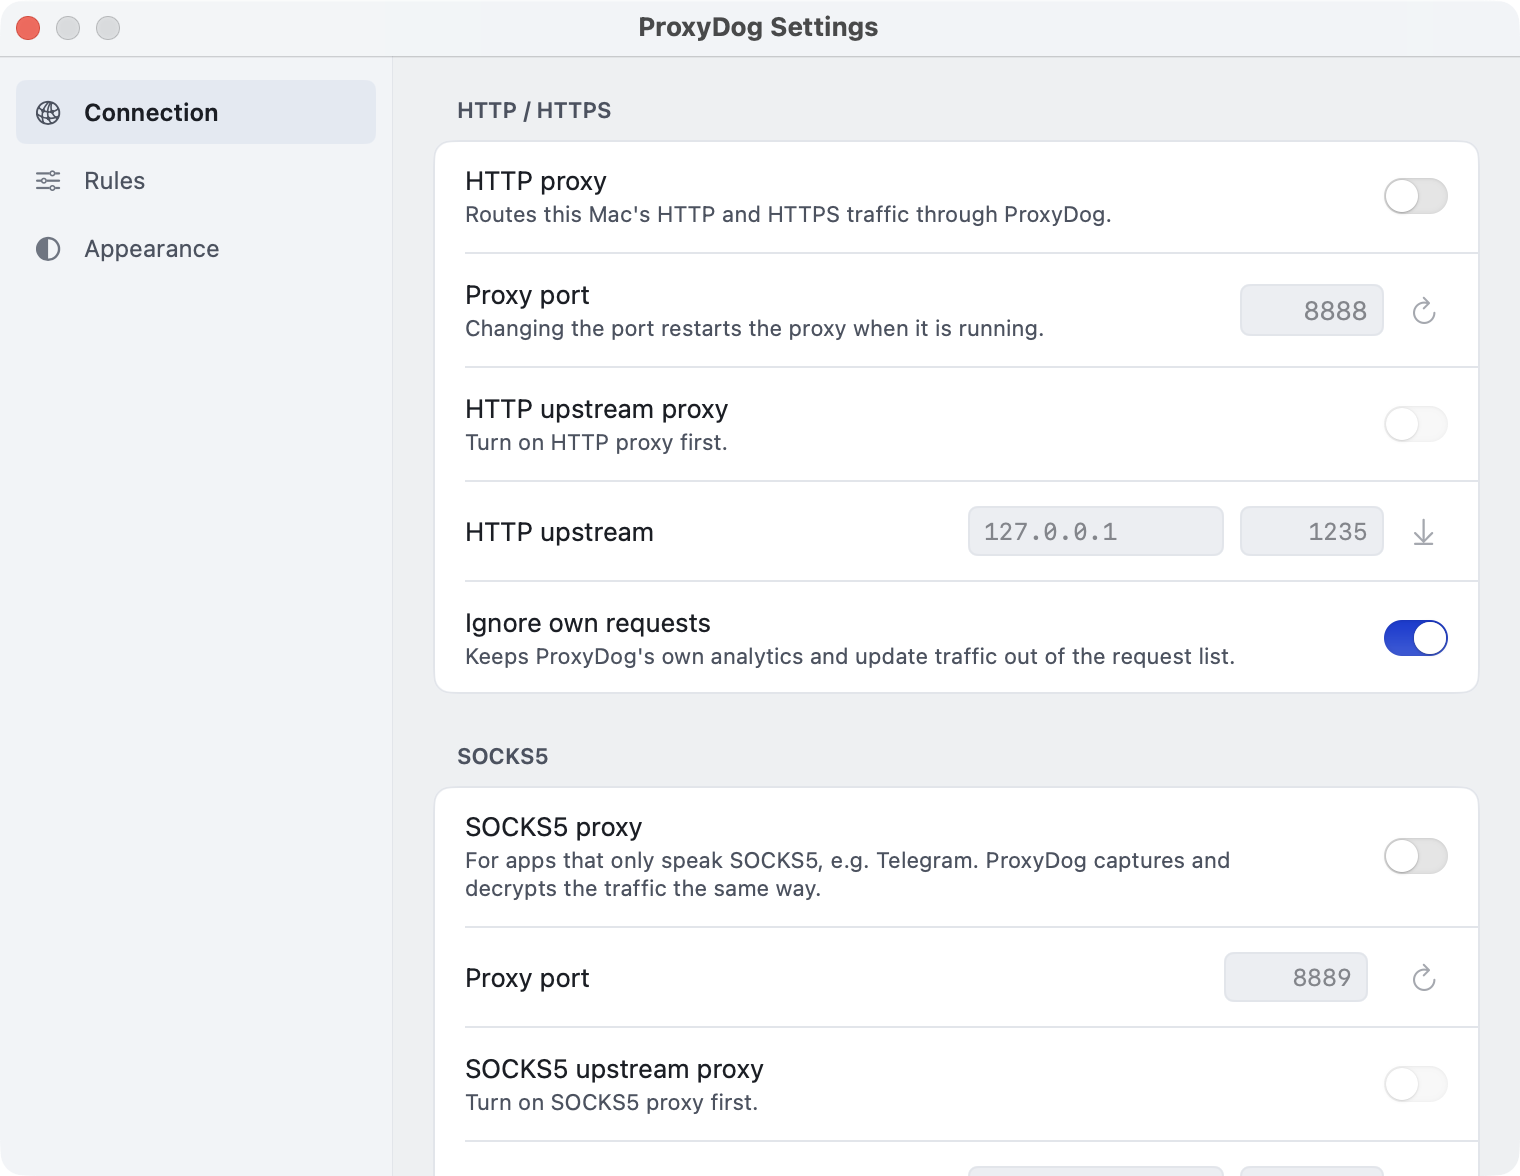
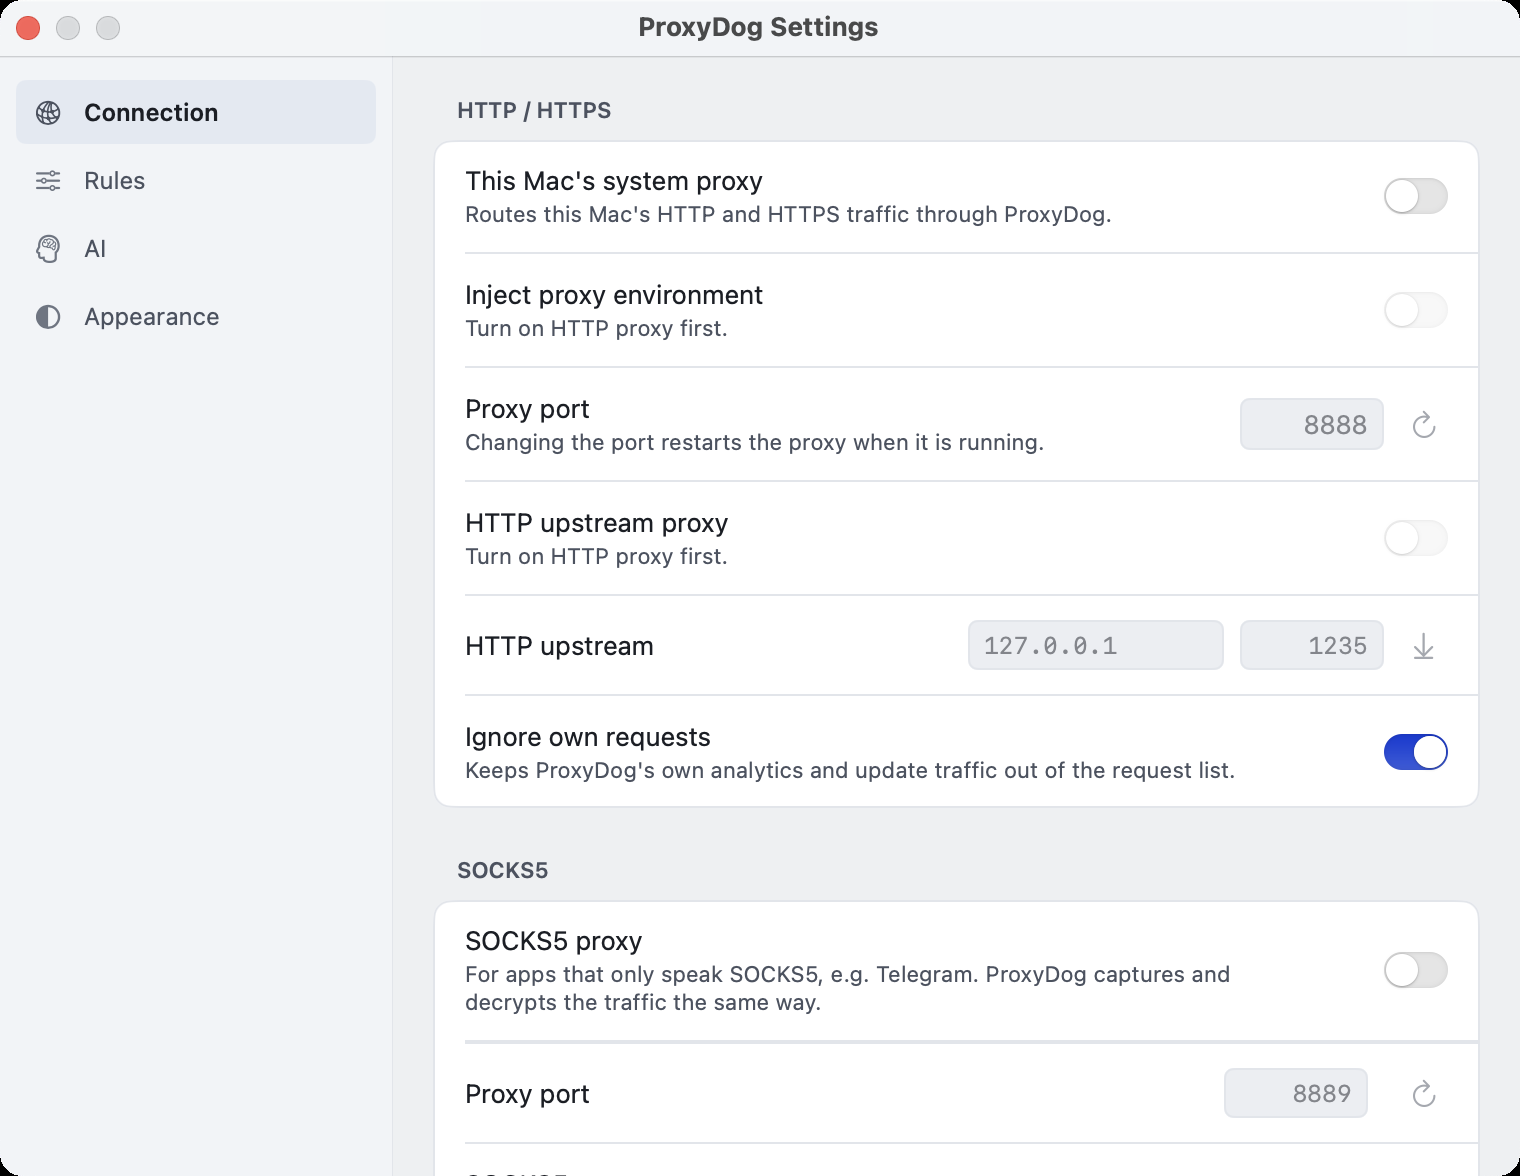
Refresh README screenshots for the current UI

diff --git a/README.md b/README.md
@@ -16,7 +16,7 @@ Also available as a [DMG disk image](https://github.com/welefen/ProxyDog/raw/mas
 - **Request inspector**: Overview (URL, client, timing, size, decryption state), Headers (request/response with copy), Body (JSON tree, text, image preview, binary hex, Pretty/Raw; `multipart/form-data` is parsed into fields/files with inline image previews and save buttons), Messages (WebSocket frames).
 - **WebSocket debugging**: captures the 101 upgrade and parses frames in both directions (text/binary/ping/pong/close, fragmented messages reassembled); `wss://` is decrypted automatically. The Messages tab appends frames live with previews and full payloads.
 - **Request attribution**: figures out which local process opened each connection via `libproc` and shows the app name, PID/path and the original User-Agent in the inspector.
-- **Search and filters**: full-text search, per-domain filtering, Chrome DevTools-style type chips (Fetch/XHR, Doc, CSS, JS, Font, Img, Media, Manifest, Socket, Wasm, Other), pause/resume, clear, delete single rows and pinning.
+- **Search and filters**: full-text search, per-domain filtering, Chrome DevTools-style type chips (Fetch/XHR, Doc, CSS, JS, Font, Img, Media, Manifest, Socket, Wasm, Other, File, Error), pause/resume, clear, delete single rows and pinning.
 - **Rewrite rules**: no-code static rules evaluated as traffic flows: redirect, replace request, replace response, modify request, modify response (URL regex/substring plus optional HTTP method). Applies to both HTTP/1.1 and HTTP/2 traffic.
 - **Breakpoints**: pause matching requests before they are forwarded or responses before they are written, edit the body in a modal editor, then resume or drop. One-shot, so other traffic keeps flowing.
 - **AI analysis**: the AI toolbar button analyzes the current list for failed requests, slow responses, large bodies, plaintext HTTP and repeated calls, with a model-written summary. On first use pick a provider (OpenAI / DeepSeek / Doubao / Kimi / Qwen / Zhipu GLM / SiliconFlow / OpenRouter / Anthropic / Gemini / custom OpenAI-compatible endpoint) and enter an API key, or configure it in Settings → AI; later clicks analyze immediately. The analysis prompt is editable and you can choose how many requests to analyze, attach uploaded images, and include form values; by default it focuses on failed requests, screenshots or private images in uploads, app lists and other privacy data. The API key is stored locally in preferences.
@@ -38,7 +38,7 @@ Body inspector: JSON tree with Pretty/Raw toggle.
 
 ![Request detail](Docs/screenshots/en/request-body.png)
 
-Type filter: Chrome DevTools-style chips for Fetch/XHR, Doc, CSS, JS, Font, Img, Media, Manifest, Socket, Wasm and Other.
+Type filter: Chrome DevTools-style chips for Fetch/XHR, Doc, CSS, JS, Font, Img, Media, Manifest, Socket, Wasm, Other, File (uploads) and Error.
 
 ![Type filter](Docs/screenshots/en/type-filter.png)
 
@@ -46,7 +46,11 @@ WebSocket messages: the 101 handshake, both directions and payload previews (tex
 
 ![WebSocket](Docs/screenshots/en/websocket.png)
 
-Settings: a sidebar with Connection (HTTP proxy, port, upstream proxies, SOCKS5, SSL & certificate), Rules and Appearance.
+AI analysis: configure a mainstream LLM provider, review the prompt and options, then let the model inspect failed requests, uploaded images, form values and other privacy leaks.
+
+![AI analysis](Docs/screenshots/en/ai-analysis.png)
+
+Settings: a sidebar with Connection (HTTP proxy, port, upstream proxies, environment proxy injection, SOCKS5, SSL & certificate), Rules, AI and Appearance.
 
 ![Settings](Docs/screenshots/en/settings.png)
 

diff --git a/README.zh-CN.md b/README.zh-CN.md
@@ -16,7 +16,7 @@
 - **请求详情**：Overview（URL、客户端、耗时、大小、解密状态）、Headers（请求/响应表头，点击复制）、Body（JSON 树、文本、图片预览、二进制 Hex、Pretty/Raw 切换；`multipart/form-data` 会自动解析成字段/文件列表，图片直接预览、文件可保存）、Messages（WebSocket 消息）。
 - **WebSocket 调试**：抓取 101 升级握手，按帧解析双向消息（文本/二进制/ping/pong/关闭、分片重组），wss 自动解密；详情页「消息」标签实时追加，可查看每条消息内容。
 - **请求归属**：通过 libproc 反查发起连接的本地进程，详情页显示是哪个 App（含 PID，可看可执行路径），并保留原始 User-Agent。
-- **检索与筛选**：全文搜索、按域名过滤、Chrome DevTools 风格的类型筛选（Fetch/XHR、Doc、CSS、JS、Font、Img、Media、Manifest、Socket、Wasm、Other）、暂停/恢复抓包、清空、单条删除、收藏。
+- **检索与筛选**：全文搜索、按域名过滤、Chrome DevTools 风格的类型筛选（Fetch/XHR、Doc、CSS、JS、Font、Img、Media、Manifest、Socket、Wasm、Other、File、Error）、暂停/恢复抓包、清空、单条删除、收藏。
 - **重写规则（Rewrite）**：不写代码的静态规则，在设置里配置后立即生效；支持重定向、替换请求、替换响应、修改请求、修改响应 5 种动作（URL 正则/子串 + 可选 HTTP 方法匹配），HTTP/1.1 与 HTTP/2 流量都适用。
 - **断点（Breakpoint）**：命中 URL 的请求在转发前/响应返回前暂停，弹出编辑器可临时修改请求或响应正文，改完「放行」或「丢弃」；单次生效，不影响其他请求。
 - **AI 分析**：工具条上的 AI 按钮会分析当前列表，发现失败请求、慢请求、大响应、明文 HTTP、重复调用等异常并给出模型总结。首次使用需选择服务商（OpenAI / DeepSeek / 豆包 / Kimi / 通义千问 / 智谱 GLM / SiliconFlow / OpenRouter / Anthropic / Gemini / 自定义 OpenAI 兼容接口）并填写 API Key，也可在「设置 → AI」中配置；配置好后再次点击按钮直接出结果。分析提示词可自定义，并可选择分析请求数量、是否附带上传图片、是否包含表单值；默认重点检查错误请求、上传内容中的截图等隐私图片、App 列表等隐私数据；API Key 保存在本机偏好设置中。
@@ -38,7 +38,7 @@ Body 详情：JSON 树与 Pretty/Raw 切换。
 
 ![请求详情](Docs/screenshots/zh/request-body.png)
 
-类型筛选：Chrome DevTools 风格，按 Fetch/XHR、文档、CSS、JS、字体、图片、媒体、清单、Socket、Wasm、其他筛选。
+类型筛选：Chrome DevTools 风格，按 Fetch/XHR、文档、CSS、JS、字体、图片、媒体、清单、Socket、Wasm、其他、File（上传文件）、Error（异常请求）筛选。
 
 ![类型筛选](Docs/screenshots/zh/type-filter.png)
 
